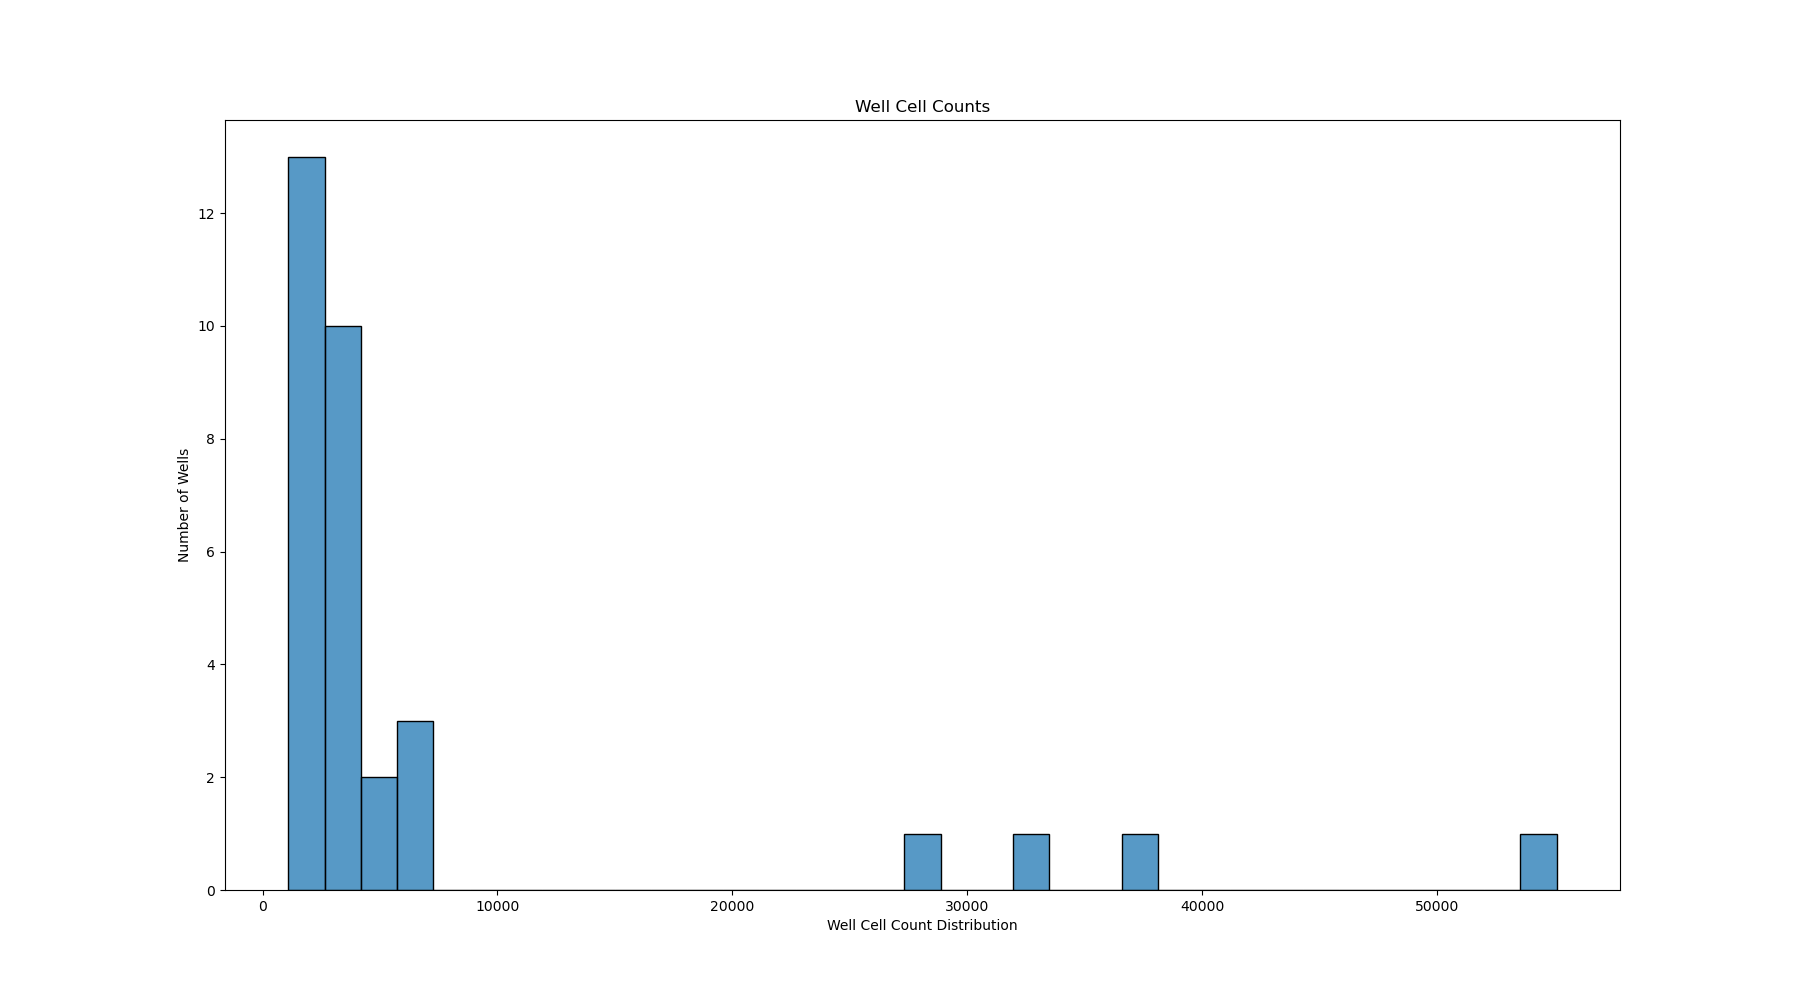
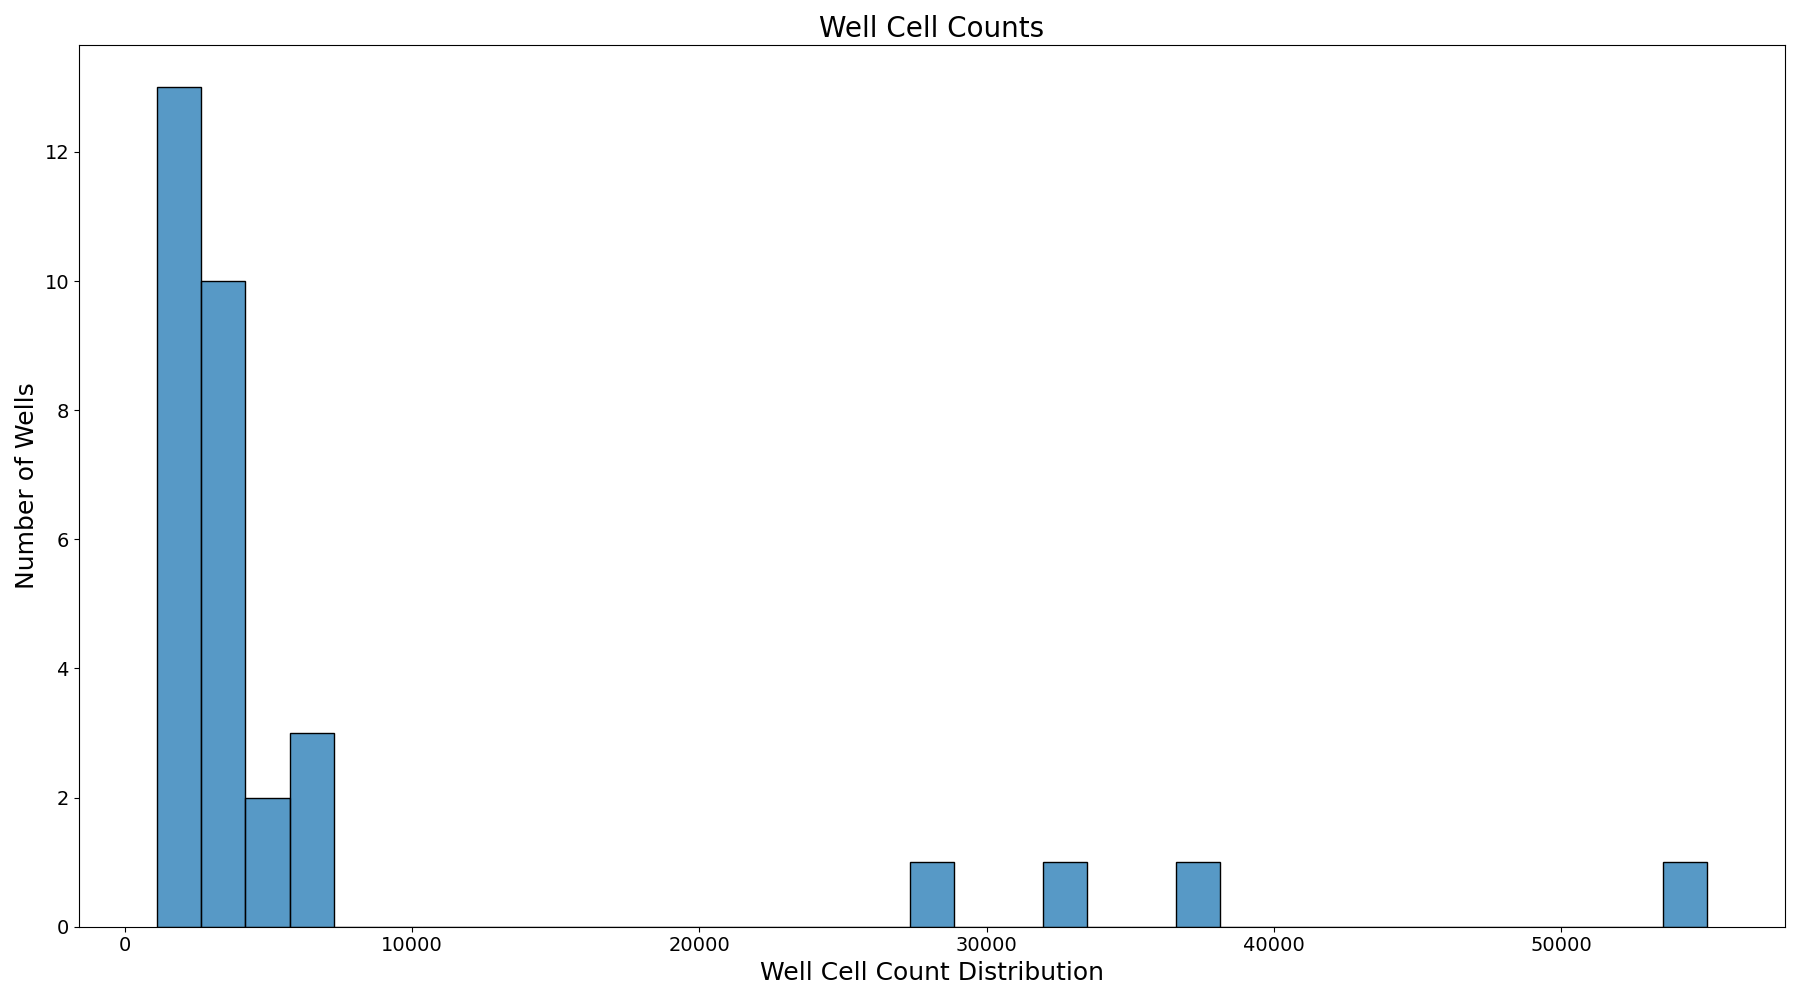
Modified cell count distribution figures from pr comments

diff --git a/0.data_analysis_and_processing/cell_count_analysis/nbconverted/well_cell_count_analysis.py b/0.data_analysis_and_processing/cell_count_analysis/nbconverted/well_cell_count_analysis.py
@@ -71,9 +71,12 @@ print(micdf)
 
 plt.figure(figsize=(18, 10))
 sns.histplot(data=micdf, x="Metadata_Cell_Count", kde=False)
-plt.xlabel("Well Cell Count Distribution")
-plt.ylabel("Number of Wells")
-plt.title("Well Cell Counts")
+plt.xlabel("Well Cell Count Distribution", fontsize=18)
+plt.ylabel("Number of Wells", fontsize=18)
+plt.xticks(fontsize=14)
+plt.yticks(fontsize=14)
+plt.title("Well Cell Counts", fontsize=20)
+plt.tight_layout()
 
 plt.savefig(cell_count_path / "well_cell_counts.png")
 
